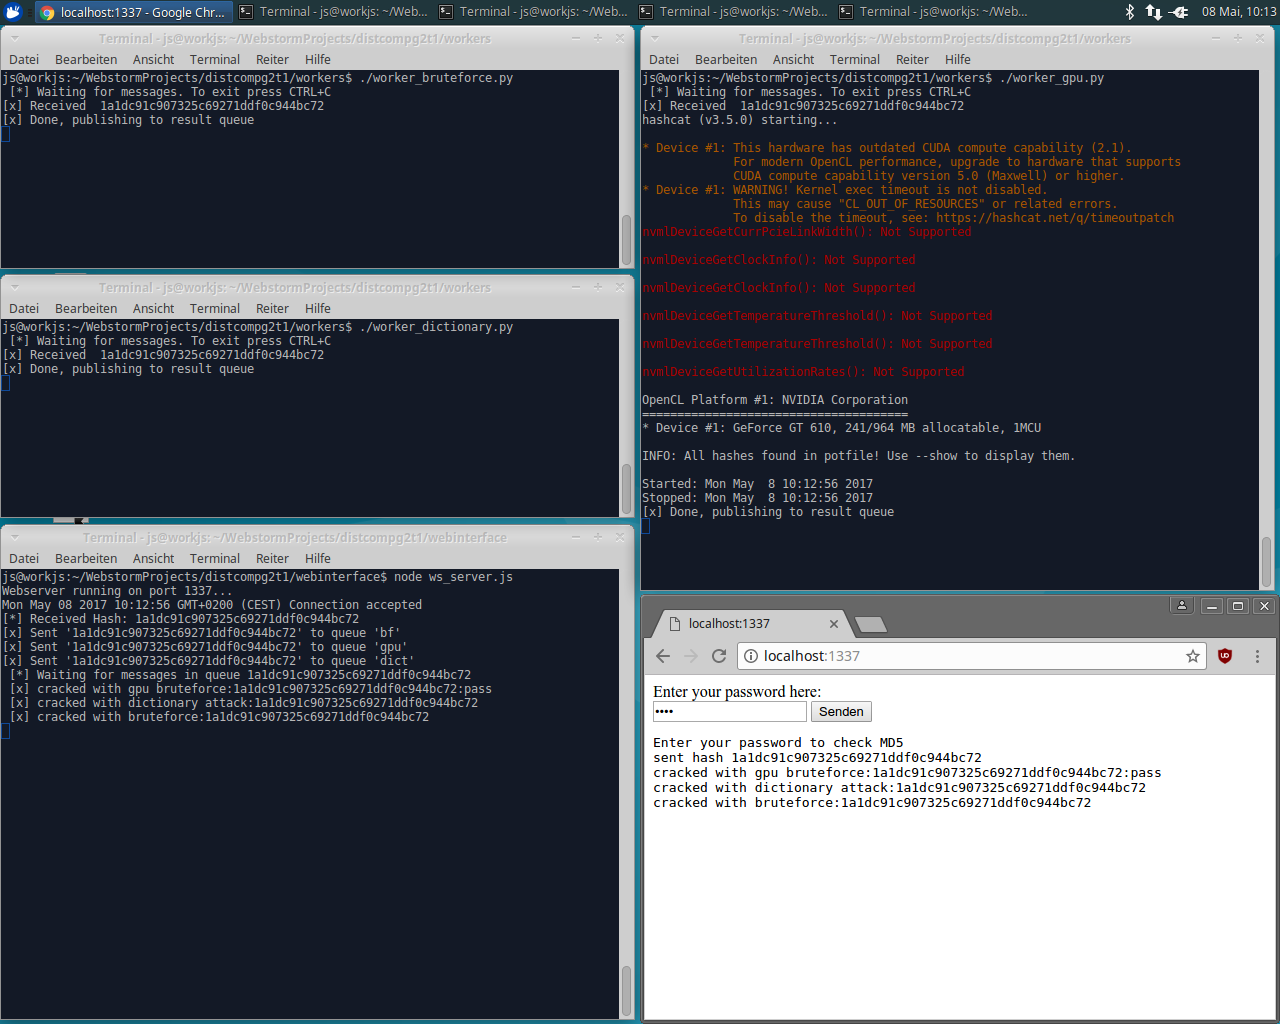
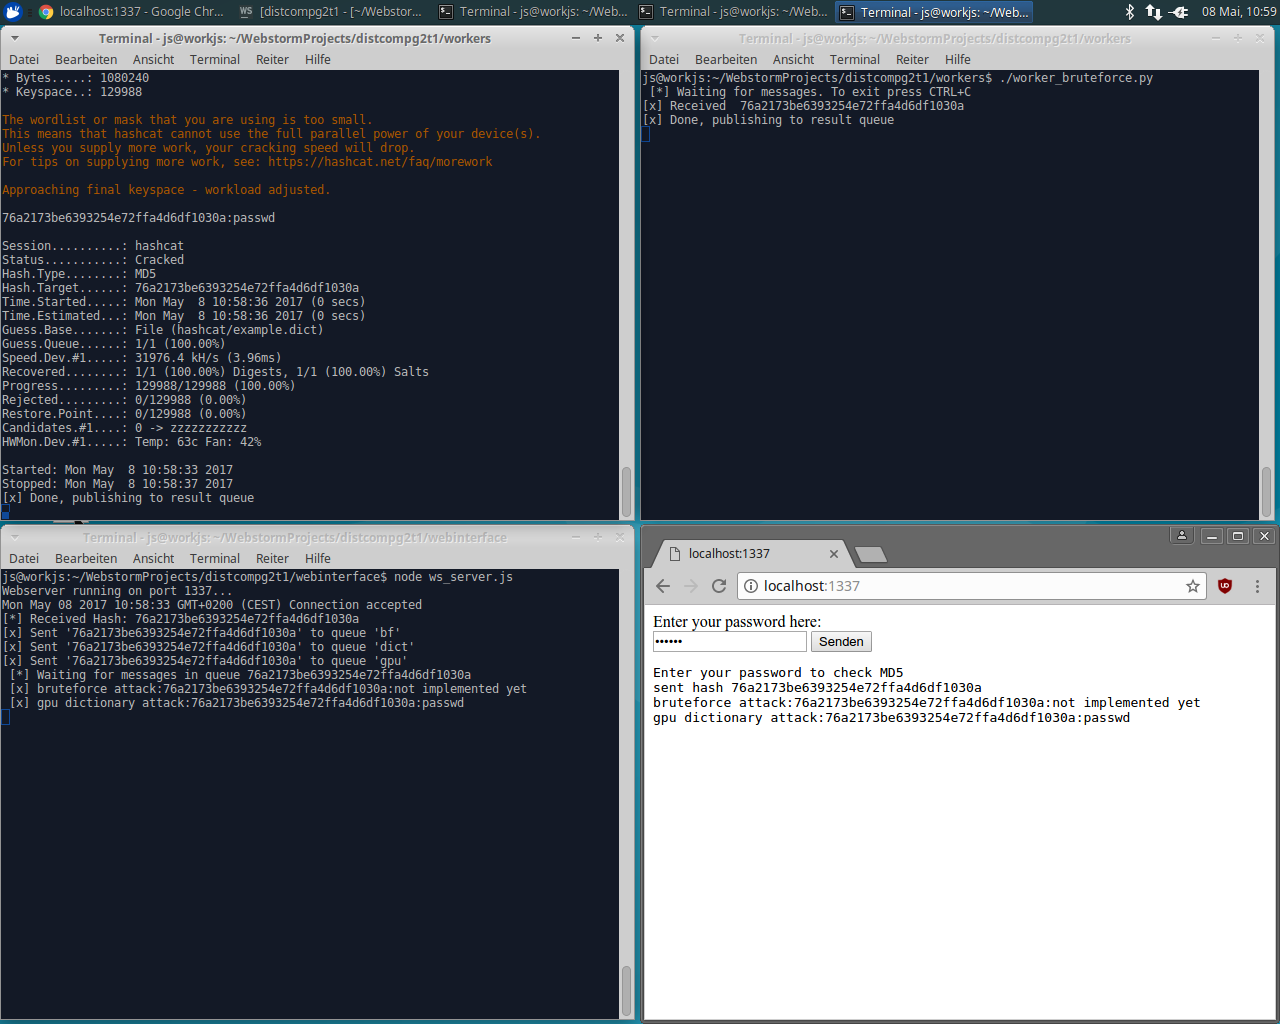
code cleanup

diff --git a/workers/worker_bruteforce.py b/workers/worker_bruteforce.py
@@ -21,7 +21,7 @@ def callback(ch, method, properties, body):
     channel.queue_declare(queue="result", durable=True)
     channel.basic_publish(exchange='',
                           routing_key=hash,
-                          body="cracked with bruteforce attack:" + hash + ":not implemented yet",
+                          body="bruteforce attack:" + hash + ":not implemented yet",
                           properties=pika.BasicProperties(
                              delivery_mode = 2, # make message persistent
                           ))

diff --git a/workers/worker_dictionary.py b/workers/worker_dictionary.py
@@ -31,7 +31,7 @@ def callback(ch, method, properties, body):
       channel.queue_declare(queue="result", durable=True)
       channel.basic_publish(exchange='',
                             routing_key=hash,
-                            body="cracked with gpu dictionary attack:" + msg,
+                            body="gpu dictionary attack:" + msg,
                             properties=pika.BasicProperties(
                                delivery_mode = 2, # make message persistent
                             ))

diff --git a/workers/worker_gpu.py b/workers/worker_gpu.py
@@ -31,7 +31,7 @@ def callback(ch, method, properties, body):
       channel.queue_declare(queue="result", durable=True)
       channel.basic_publish(exchange='',
                             routing_key=hash,
-                            body="cracked with gpu bruteforce attack:" + msg,
+                            body="gpu bruteforce attack:" + msg,
                             properties=pika.BasicProperties(
                                delivery_mode = 2, # make message persistent
                             ))
